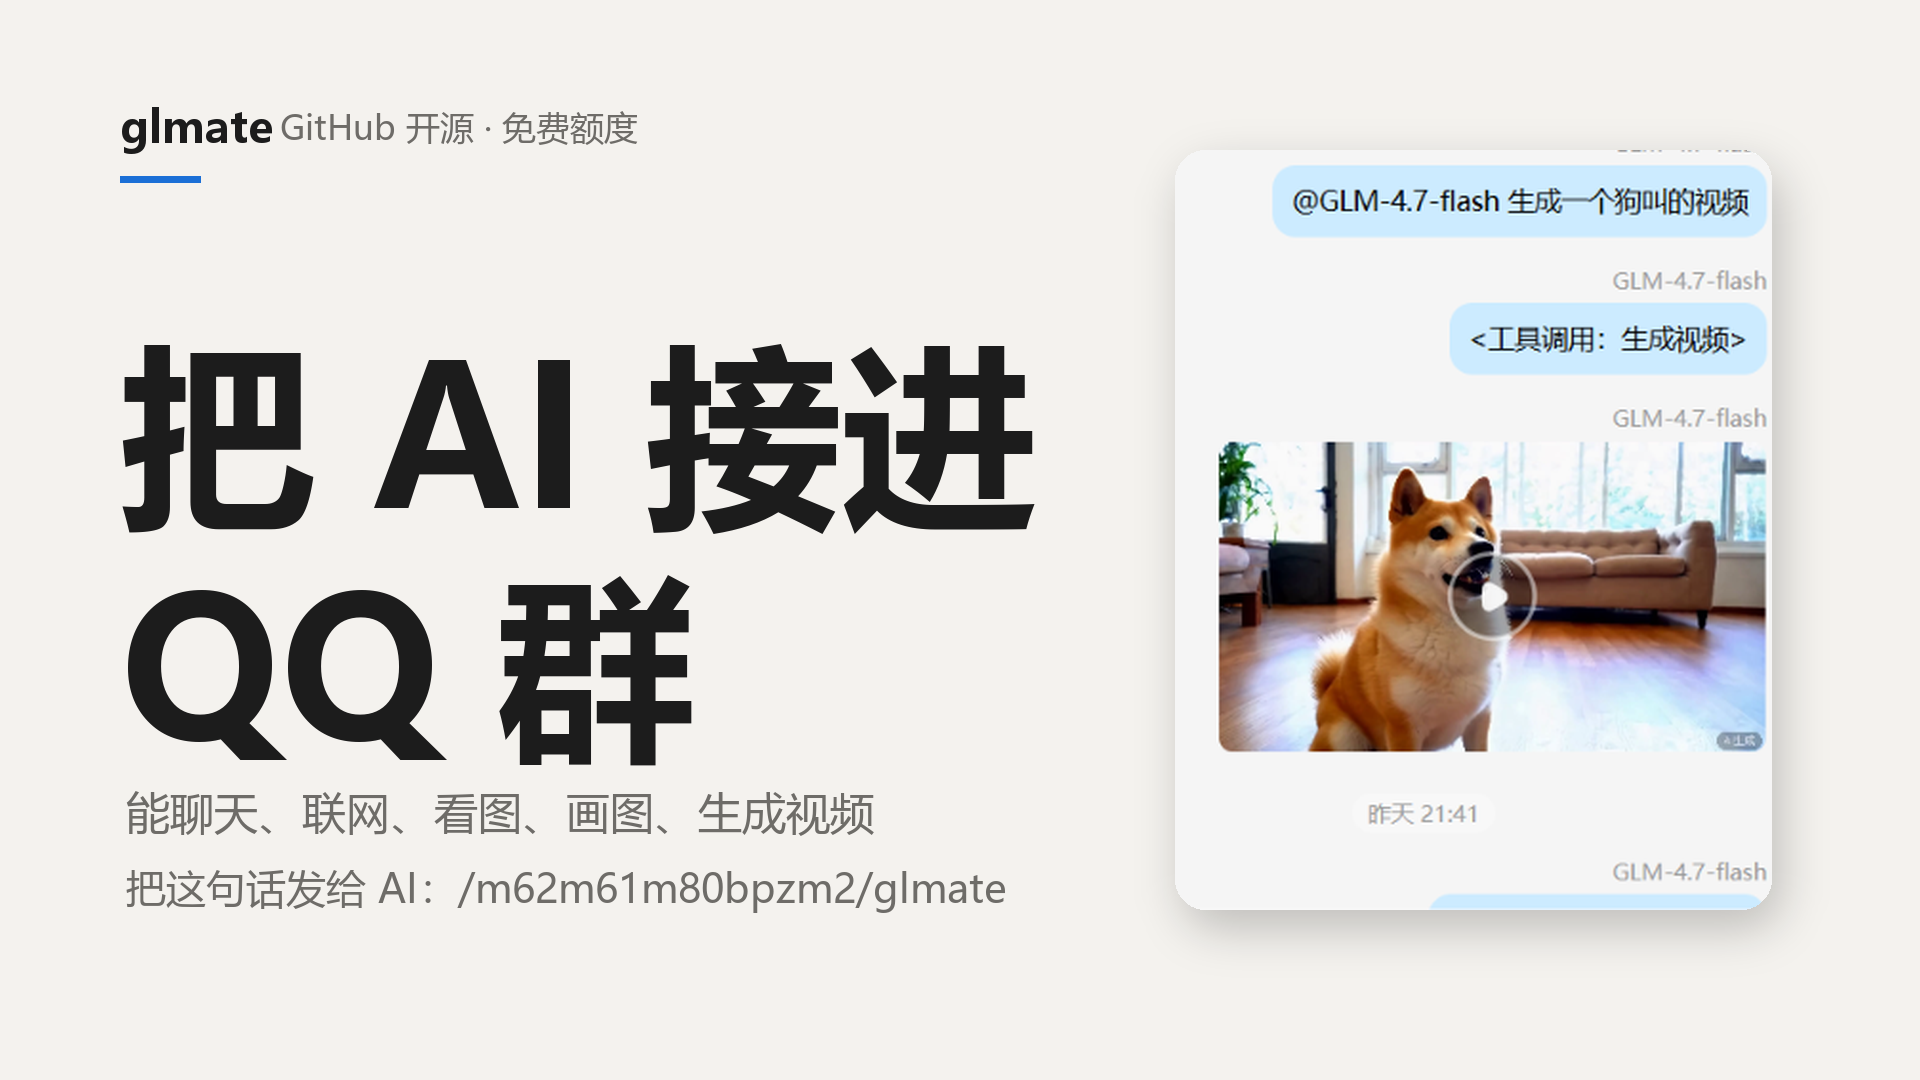
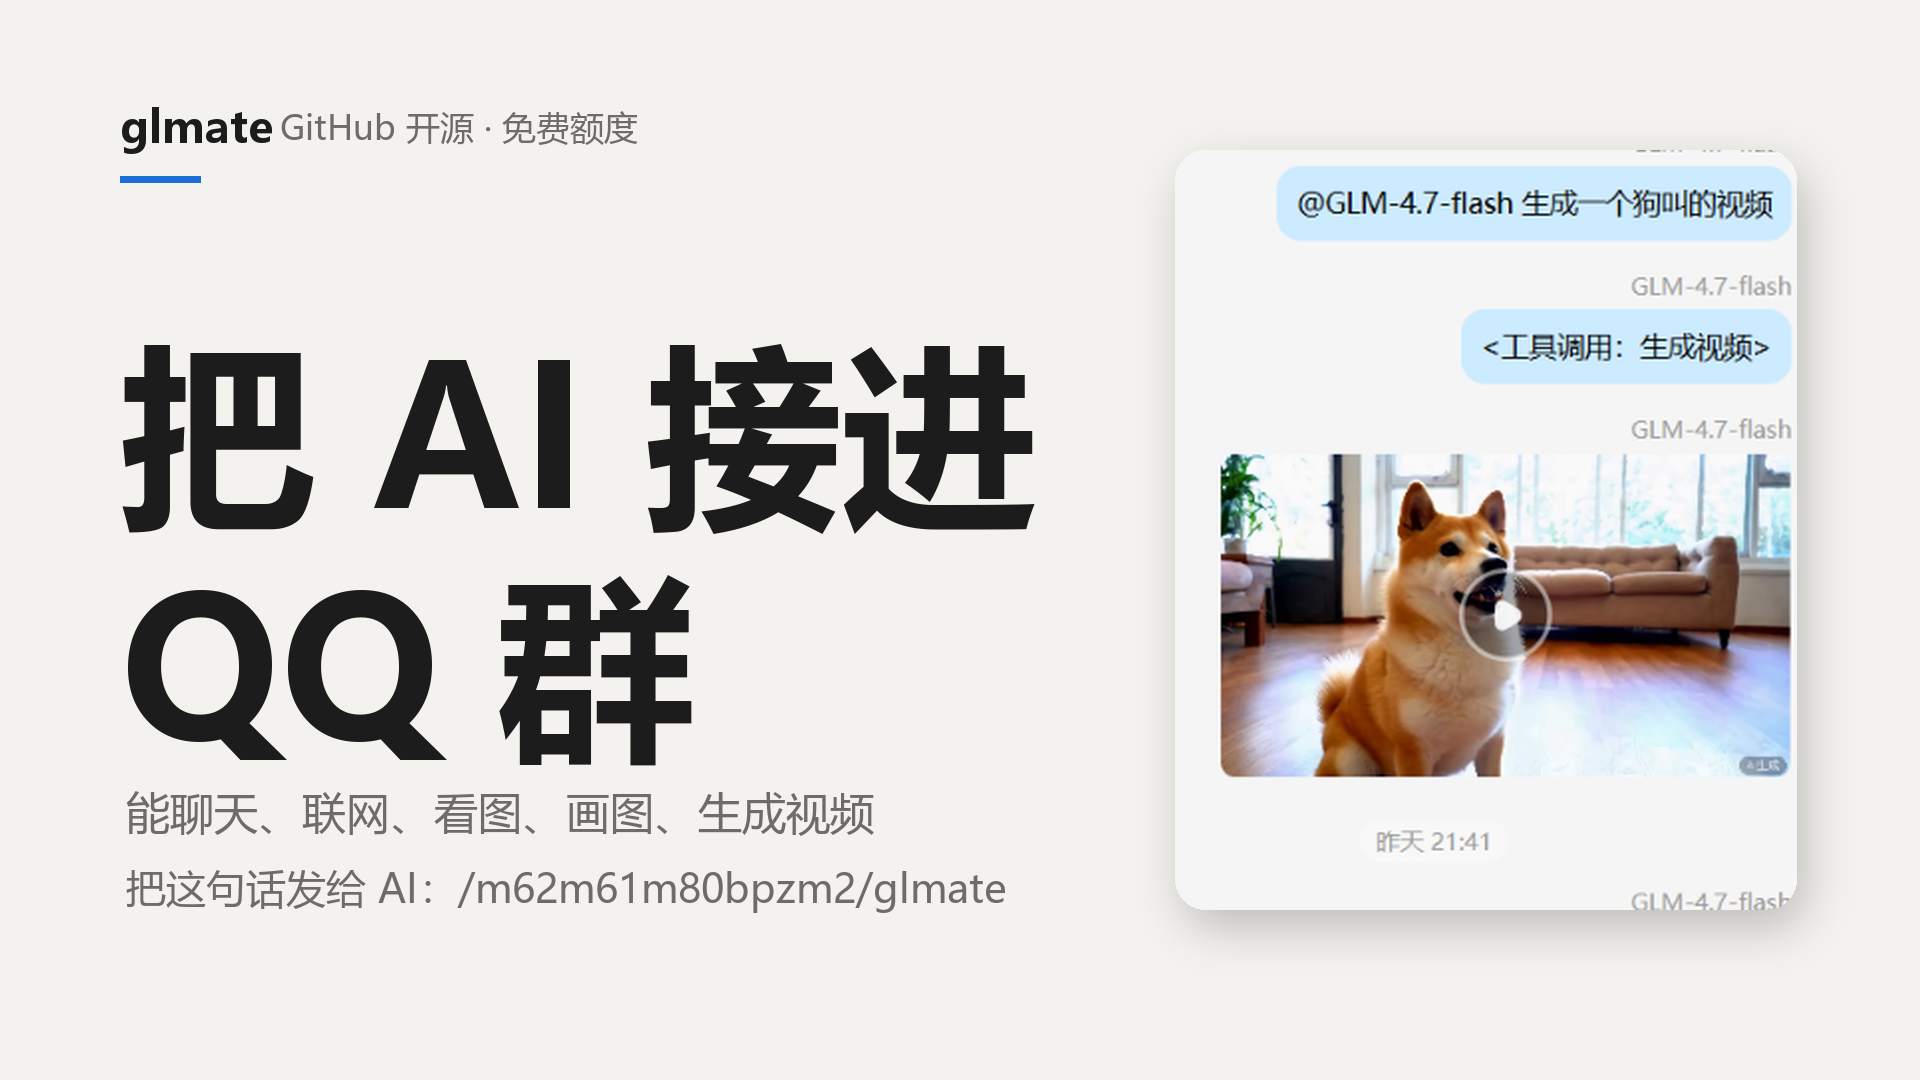
video: 新增 4:3 封面并裁掉截图底部残边
- covers.py 增加 1440x1080（4:3）排版，适配要求 4:3 的平台
- render.py 增加 BOTTOM_CROP，去掉视频截图底部的半截消息气泡
- 三张封面与成片同步重出

Changed region(s): [[0.625, 0.1528, 0.9375, 0.8556]]

diff --git a/video/covers.py b/video/covers.py
@@ -13,6 +13,7 @@ import render as R
 
 OUT_H = R.HERE / "cover-horizontal.png"
 OUT_V = R.HERE / "cover-vertical.png"
+OUT_43 = R.HERE / "cover-4x3.png"
 
 
 def label(d, x, y):
@@ -85,6 +86,32 @@ def vertical():
     save(base, OUT_V)
 
 
+def four_three():
+    W, H = 1440, 1080
+    base = Image.new("RGBA", (W, H), R.BG)
+    d = ImageDraw.Draw(base)
+
+    label(d, 90, 80)
+    d.rectangle([90, 160, 170, 166], fill=R.ACCENT)
+
+    y = headline_lines(d, 90, 250, ["把 AI 接进", "QQ 群"], 150, 176)
+    d.text((96, y + 10), "能聊天、联网、看图、画图、生成视频",
+           font=R.font(R.FONT_RG, 36), fill=R.MUTED)
+    d.text((96, y + 62), "免费额度 · 一句话部署",
+           font=R.font(R.FONT_RG, 36), fill=R.MUTED)
+
+    d.rectangle([90, y + 150, 170, y + 156], fill=R.ACCENT)
+    d.text((90, y + 176), "读", font=R.font(R.FONT_RG, 38), fill=R.MUTED)
+    d.text((134, y + 173), "/m62m61m80bpzm2/glmate",
+           font=R.font(R.FONT_MONO, 38), fill=R.INK)
+
+    shot, mask = R.round_shot("展示视频生成.png", 680)
+    R.paste_shot(base, shot, mask, W - shot.width - 90, 190)
+
+    save(base, OUT_43)
+
+
 if __name__ == "__main__":
     horizontal()
     vertical()
+    four_three()

diff --git a/video/render.py b/video/render.py
@@ -70,6 +70,10 @@ CROP = {
     "展示命令.png": 0.05,
 }
 
+BOTTOM_CROP = {
+    "展示视频生成.png": 0.04,
+}
+
 # Lines whose caption is skipped: the card itself already shows the text.
 NO_CAPTION = {1, 8, 12}
 
@@ -125,6 +129,9 @@ def round_shot(path, height, radius=30):
     crop = CROP.get(path, 0.0)
     if crop:
         img = img.crop((0, 0, int(img.width * (1 - crop)), img.height))
+    bottom = BOTTOM_CROP.get(path, 0.0)
+    if bottom:
+        img = img.crop((0, 0, img.width, int(img.height * (1 - bottom))))
     w = int(img.width * height / img.height)
     img = img.resize((w, height), Image.LANCZOS)
     mask = Image.new("L", img.size, 0)
